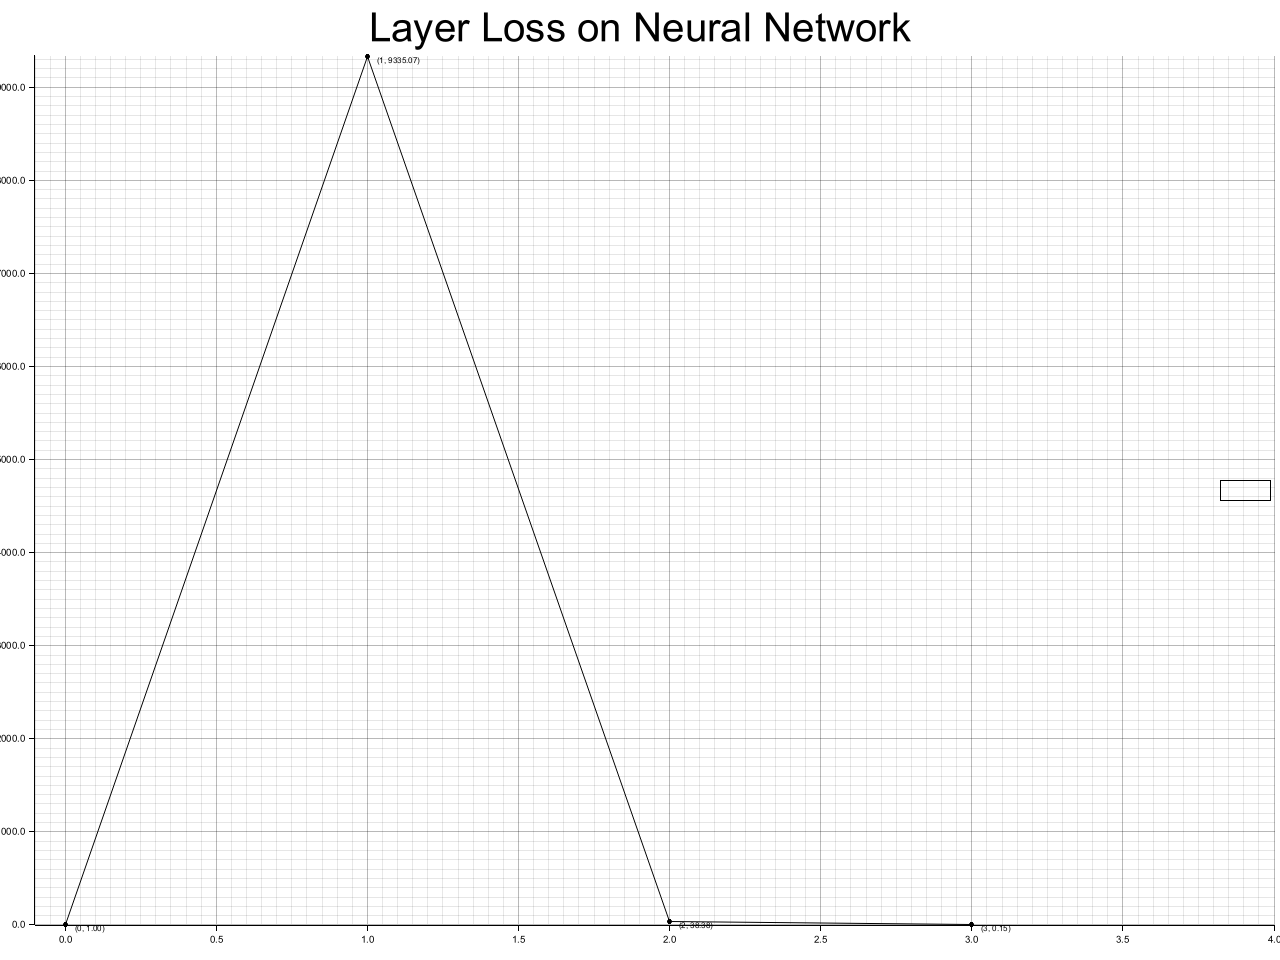
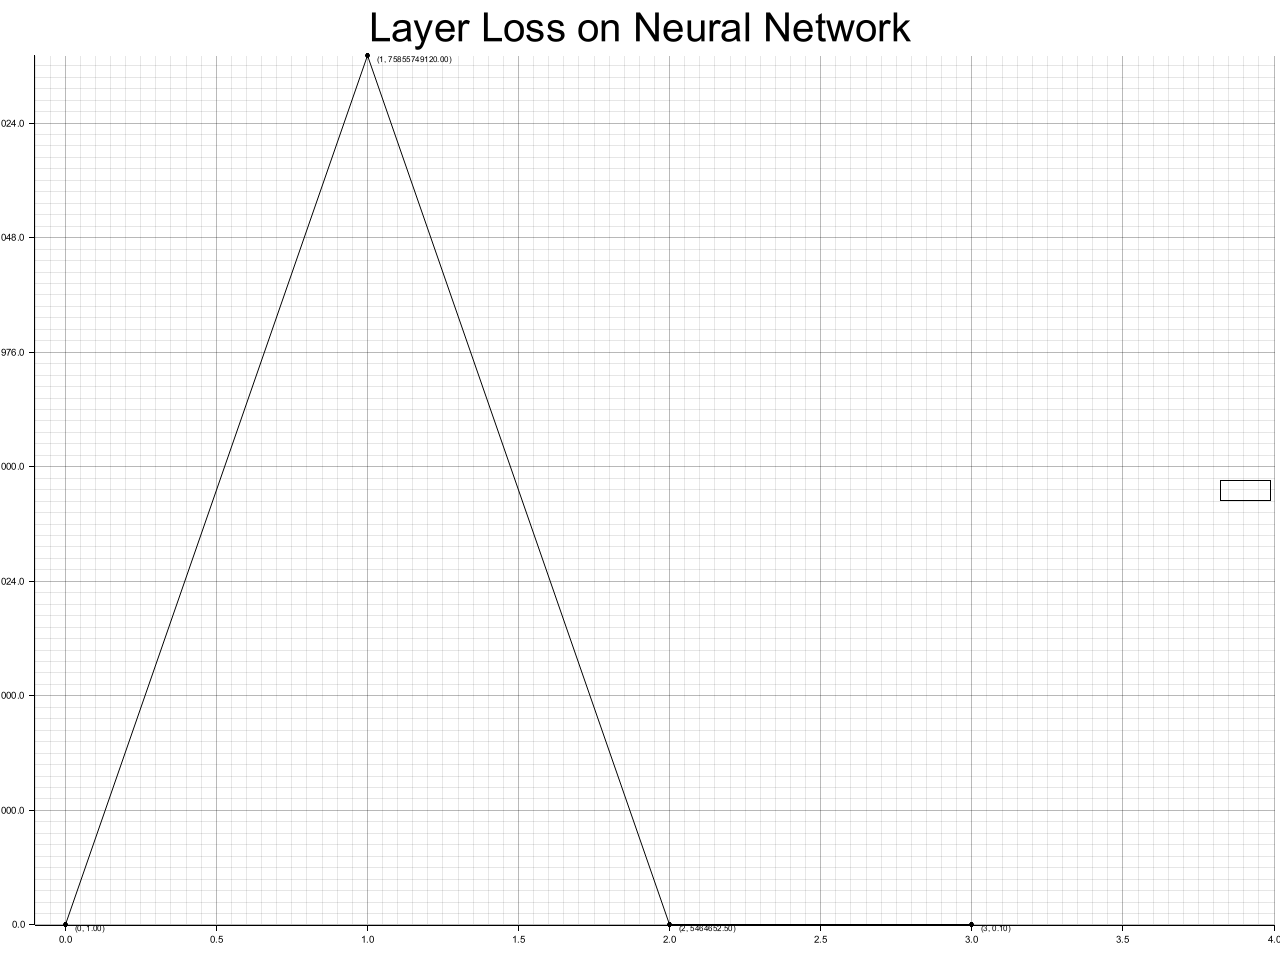
Moved gradient calculation

Changed region(s): [[0.0, 0.0625, 1.0, 0.9688]]

diff --git a/src/network/layer/dense.rs b/src/network/layer/dense.rs
@@ -64,7 +64,7 @@ impl Layer for Dense{
     ///Does Back Propegation according to simple Dense network rules
     ///Finds the error of the previous layer and returns what the updated weights and biases should
     ///be in that layer, updates the gradients and errors to move backwards once
-    fn backward(&mut self, gradients: Box<dyn Input>, errors: Box<dyn Input>, data: Box<dyn Input>) -> (Box<dyn Input>, Box<dyn Input>) {
+    fn backward(&mut self, gradients: Box<dyn Input>, errors: Box<dyn Input>, data: Box<dyn Input>) -> Box<dyn Input> {
         let mut gradients_mat = Matrix::from(gradients.to_param_2d());
         let mut errors_mat = Matrix::from(errors.to_param_2d());
         let mut data_mat = Matrix::from(data.to_param_2d());
@@ -81,9 +81,13 @@ impl Layer for Dense{
 
         //println!("{}x{} {}x{}", self.weights.rows, self.weights.columns, data.to_param_2d()[0].len(), data.to_param_2d().len());
         self.biases = self.biases.clone() + &gradients_mat.clone();
-        self.weights = self.weights.clone() + &(gradients_mat.clone() * (&data_mat.clone().transpose()));
+        self.weights = self.weights.clone() + &(gradients_mat.clone() * (&data_mat.transpose()));
 
-        (Box::new(data_mat.map(self.activation_fn.get_function().derivative)), Box::new(errors_mat))
+        Box::new(errors_mat)
+    }
+
+    fn update_gradient(&self) -> Box<dyn Input> {
+        Box::new(self.data.clone().map(self.activation_fn.get_function().derivative))
     }
 
     /*fn backward(&mut self, inputs: &Matrix, gradients: &Matrix, errors: &Matrix, layer_prev: &Matrix, layer_prev_bias: &Matrix) -> (Matrix, Matrix, Matrix, Matrix){

diff --git a/src/network/layer/layers.rs b/src/network/layer/layers.rs
@@ -8,7 +8,7 @@ pub trait Layer{
     fn forward(&mut self, inputs: &Box<dyn Input>) -> Box<dyn Input> {
         Box::new(Matrix::new_random(0,0))
     }
-    fn backward(&mut self, parsed: Box<dyn Input>, errors: Box<dyn Input>, data: Box<dyn Input>) -> (Box<dyn Input>, Box<dyn Input>); 
+    fn backward(&mut self, parsed: Box<dyn Input>, errors: Box<dyn Input>, data: Box<dyn Input>) -> Box<dyn Input>; 
     fn get_cols(&self) -> usize {0}
     fn get_rows(&self) -> usize {0}
     fn get_weights(&self) -> Matrix;
@@ -21,6 +21,7 @@ pub trait Layer{
     }
     fn shape(&self) -> (usize,usize,usize);
     fn get_loss(&self) -> f32;
+    fn update_gradient(&self) -> Box<dyn Input>;
 }
 
 #[derive(Serialize, Deserialize, Clone)]

diff --git a/src/main.rs b/src/main.rs
@@ -11,7 +11,7 @@ fn main() -> Result<(), Box<dyn Error>> {
 
     new_net.add_layer(LayerTypes::DENSE(2, Activations::SIGMOID, 0.1));
     new_net.add_layer(LayerTypes::DENSE(3, Activations::SIGMOID, 0.1));
-    new_net.add_layer(LayerTypes::DENSE(4, Activations::SIGMOID, 0.1));
+    new_net.add_layer(LayerTypes::DENSE(4, Activations::TANH, 0.1));
     new_net.add_layer(LayerTypes::DENSE(2, Activations::SIGMOID, 0.1));
     new_net.add_layer(LayerTypes::DENSE(3, Activations::SIGMOID, 0.1));
     new_net.add_layer(LayerTypes::DENSE(1, Activations::SIGMOID, 0.1));

diff --git a/src/network/network.rs b/src/network/network.rs
@@ -132,7 +132,8 @@ impl Network{
 
         for i in (0..self.layers.len() - 1).rev() {
             let data_box: Box<dyn Input> = self.layers[i].get_data();
-            (gradients, errors) = self.layers[i+1].backward(gradients, errors, data_box);
+            errors = self.layers[i+1].backward(gradients, errors, data_box);
+            gradients = self.layers[i].update_gradient()
         }
     }
     ///Trains a neural network by iteratively feeding forward a series of inputs and then doing
